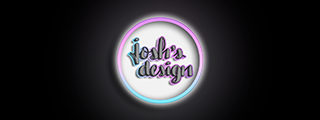
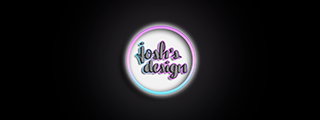
patros

Changed region(s): [[0.3438, 0.075, 0.6562, 0.925]]

diff --git a/patros/w2apatros.html b/patros/w2apatros.html
@@ -20,7 +20,7 @@
 </head>
 <body>
     <div id="imageContainer">
-        <img id="rotatingImage" src="images/Syntech.png" alt="Rotating Image">
+        <img id="rotatingImage" src="images/w2p_2.png" alt="Rotating Image">
     </div>
 
     <script>
